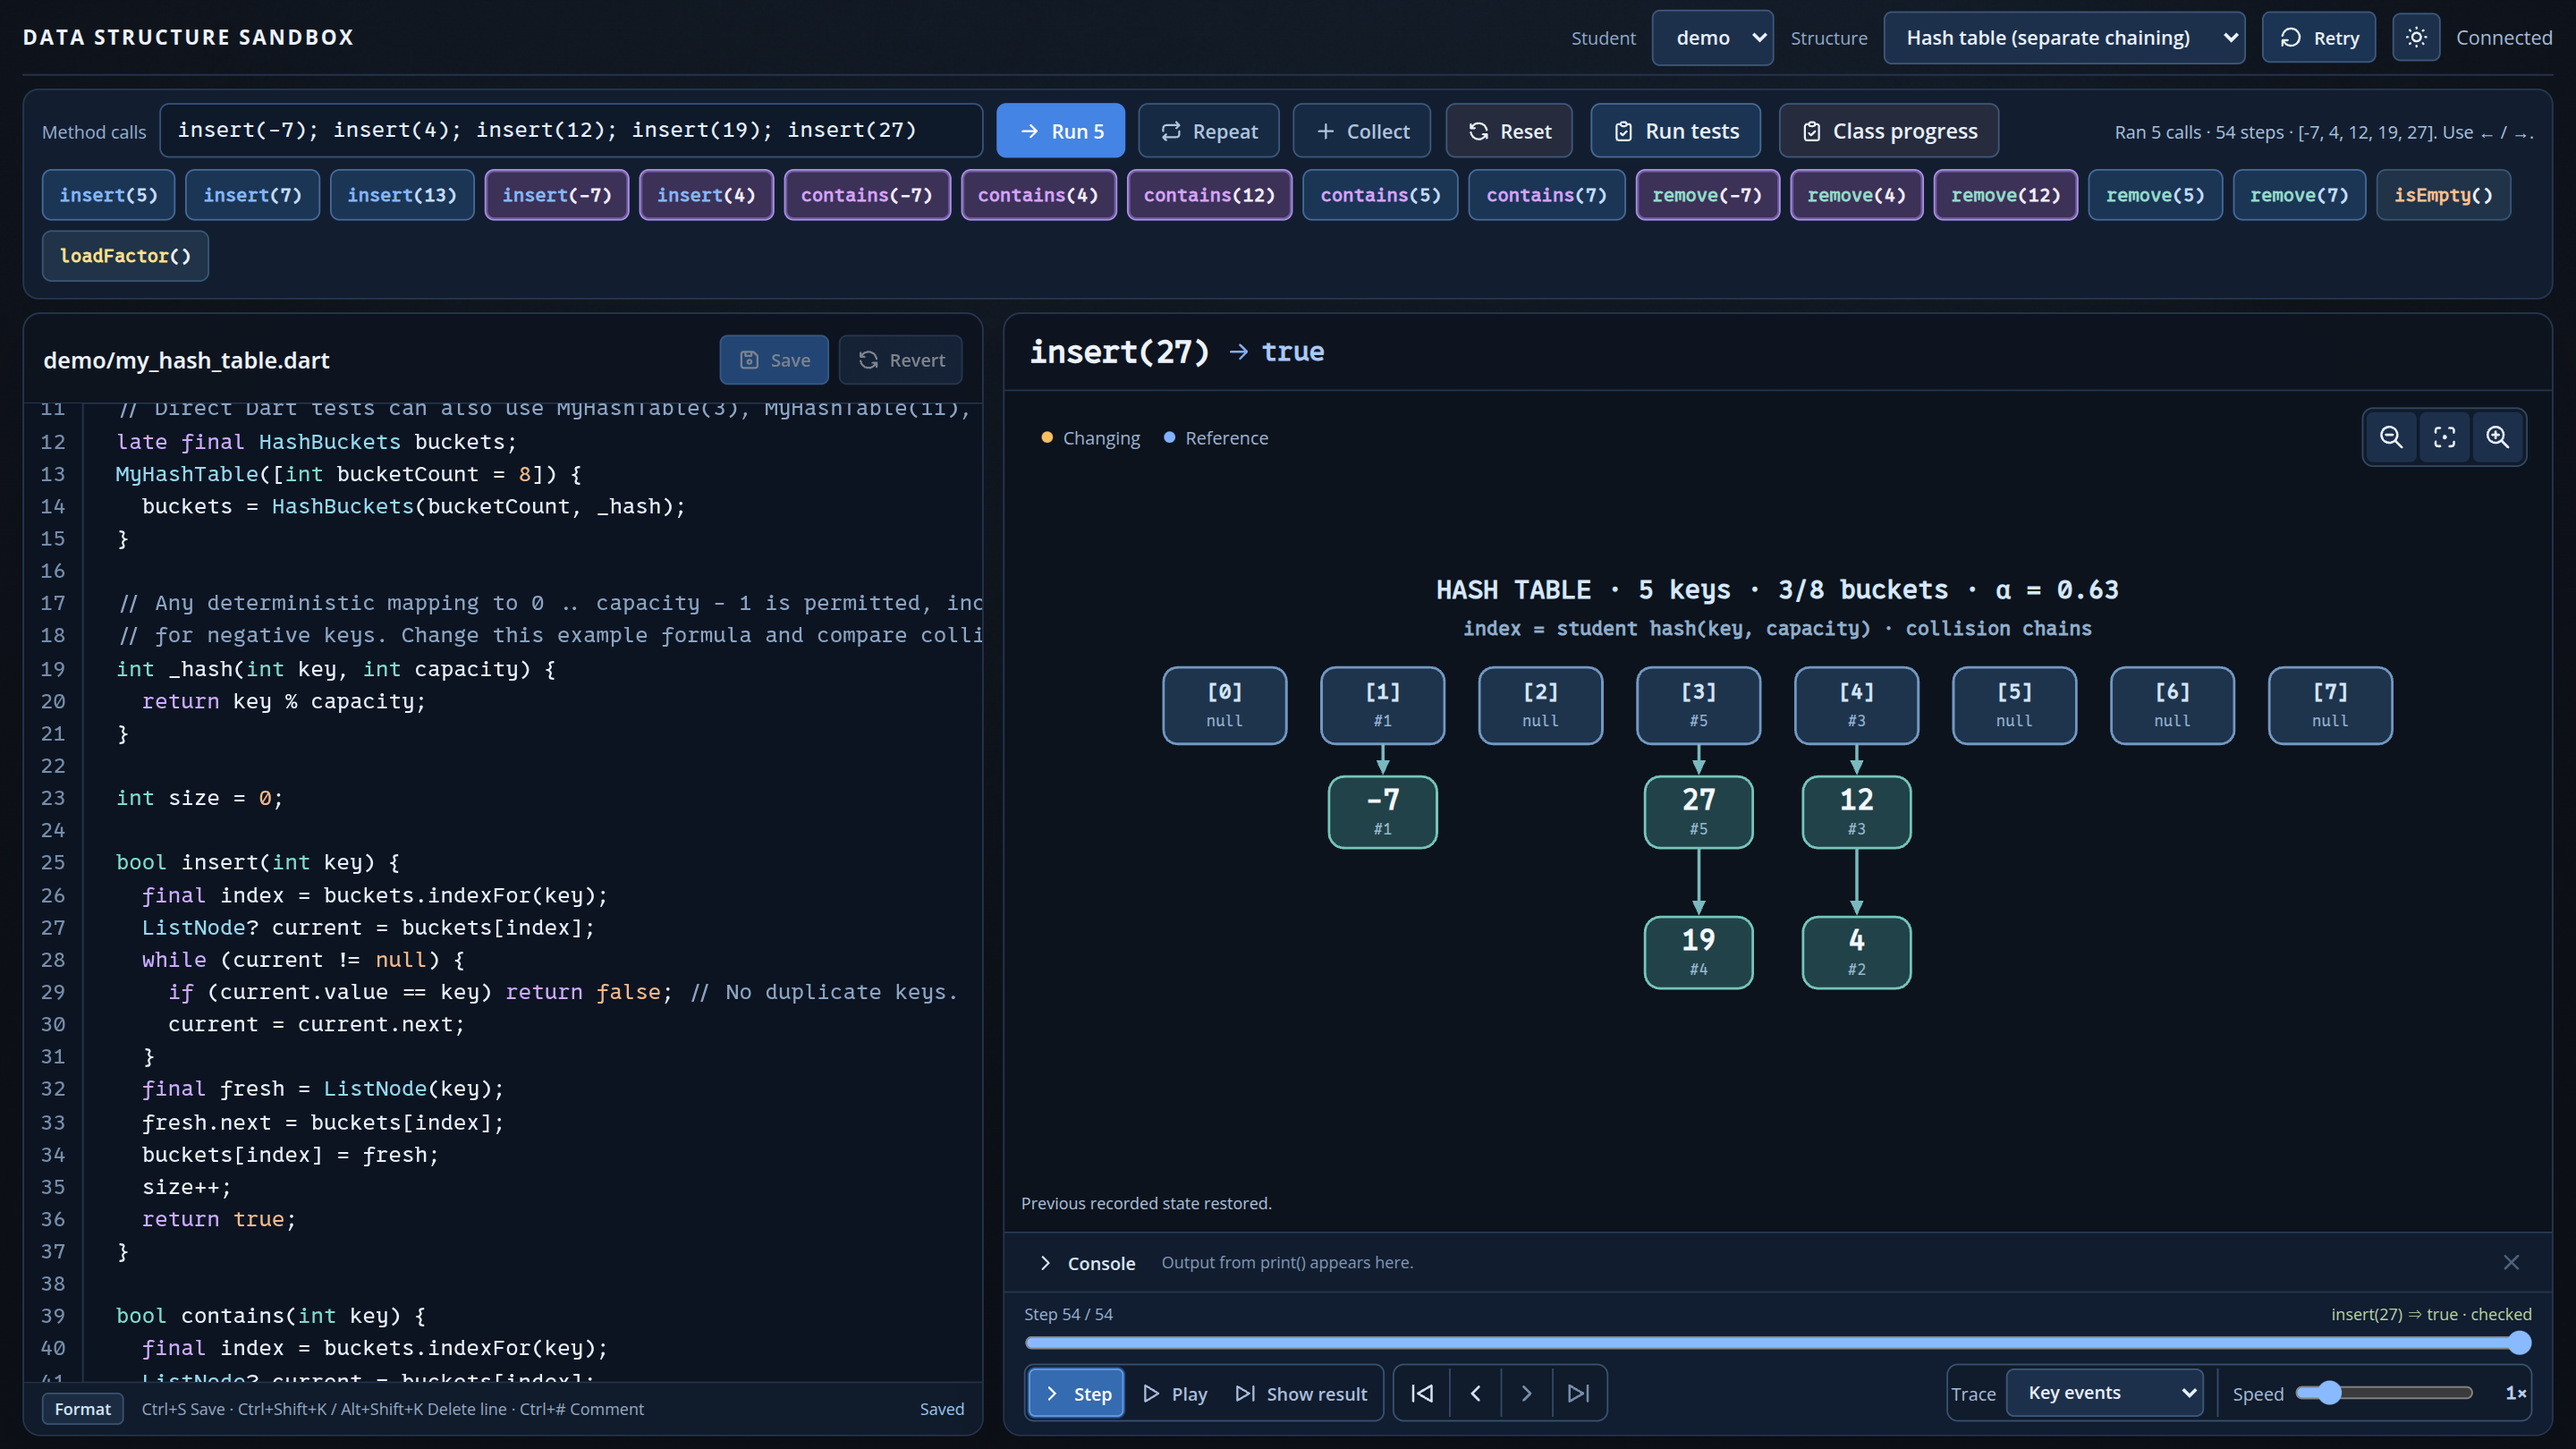
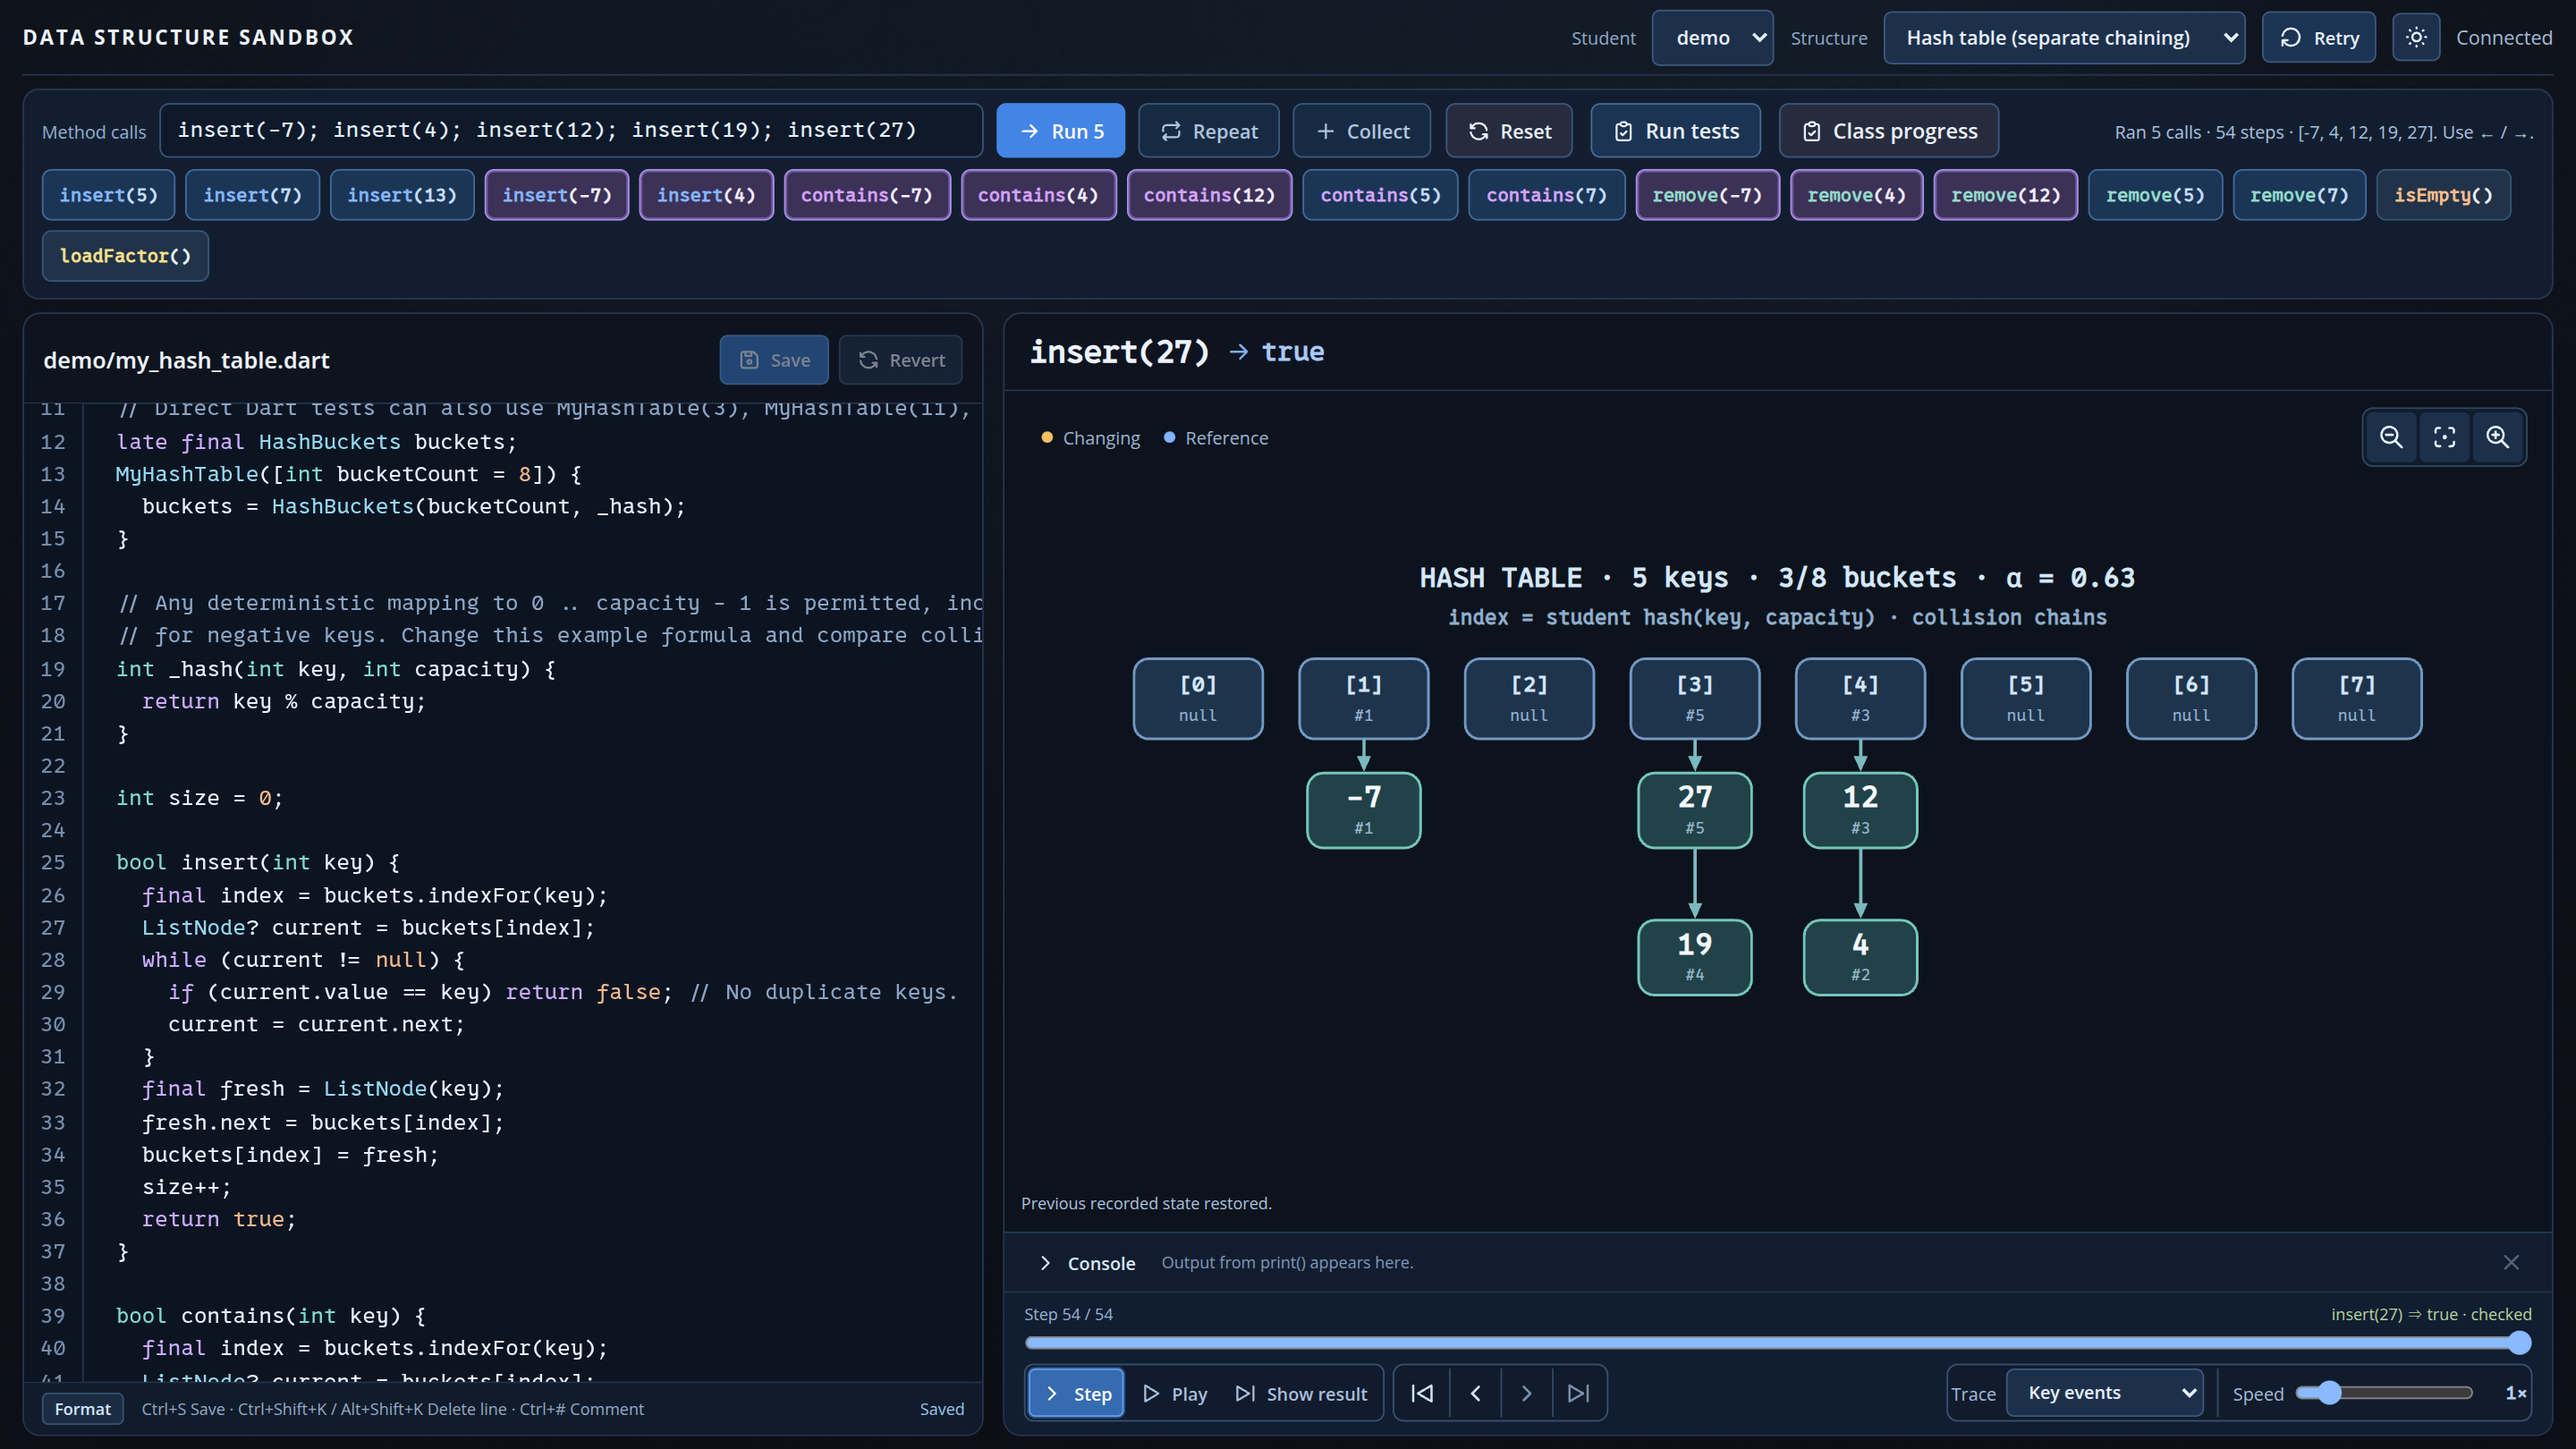
Data structures sandbox: fitted diagrams, AVL tree as teaser
Every screenshot presses »Fit diagram« before it is taken, so the list,
the AVL tree and the hash table fill their panel. The activity card
shows the AVL tree.

Changed region(s): [[0.4375, 0.3704, 0.9375, 0.5864], [0.625, 0.6173, 0.75, 0.7099]]

diff --git a/src/content/sandbox-datenstrukturen/sandbox-datenstrukturen.md b/src/content/sandbox-datenstrukturen/sandbox-datenstrukturen.md
@@ -1,5 +1,5 @@
 <div class='meta'>
-image: data-structures-sandbox.webp
+image: data-structures-avl.webp
 kind: projekt
 topic: sandboxes
 reference: [gitlab]
@@ -107,6 +107,9 @@ wait-for-text: Ran 4 calls
 sleep: 1
 click: selector:#last
 sleep: 1
+click: selector:#fit-scene
+move-mouse: selector:.scene-hint
+sleep: 1
 -->
 <img class='full' src='data-structures-sandbox.webp' alt='Einfach verkettete Liste in Java nach vier Einfügungen: Knoten und next-Referenzen neben dem Quelltext.'>
 
@@ -133,6 +136,9 @@ wait-for-text: Ran 6 calls
 sleep: 1
 click: selector:#last
 sleep: 1
+click: selector:#fit-scene
+move-mouse: selector:.scene-hint
+sleep: 1
 -->
 <img class='full' src='data-structures-avl.webp' alt='AVL-Baum in Python nach sechs Einfügungen und zwei Rotationen.'>
 
@@ -156,6 +162,9 @@ press: Enter
 wait-for-text: Ran 5 calls
 sleep: 1
 click: selector:#last
+sleep: 1
+click: selector:#fit-scene
+move-mouse: selector:.scene-hint
 sleep: 1
 -->
 <img class='full' src='data-structures-hash.webp' alt='Hash-Tabelle mit acht Buckets, in denen sich kollidierende Schlüssel zu Ketten verbinden.'>
